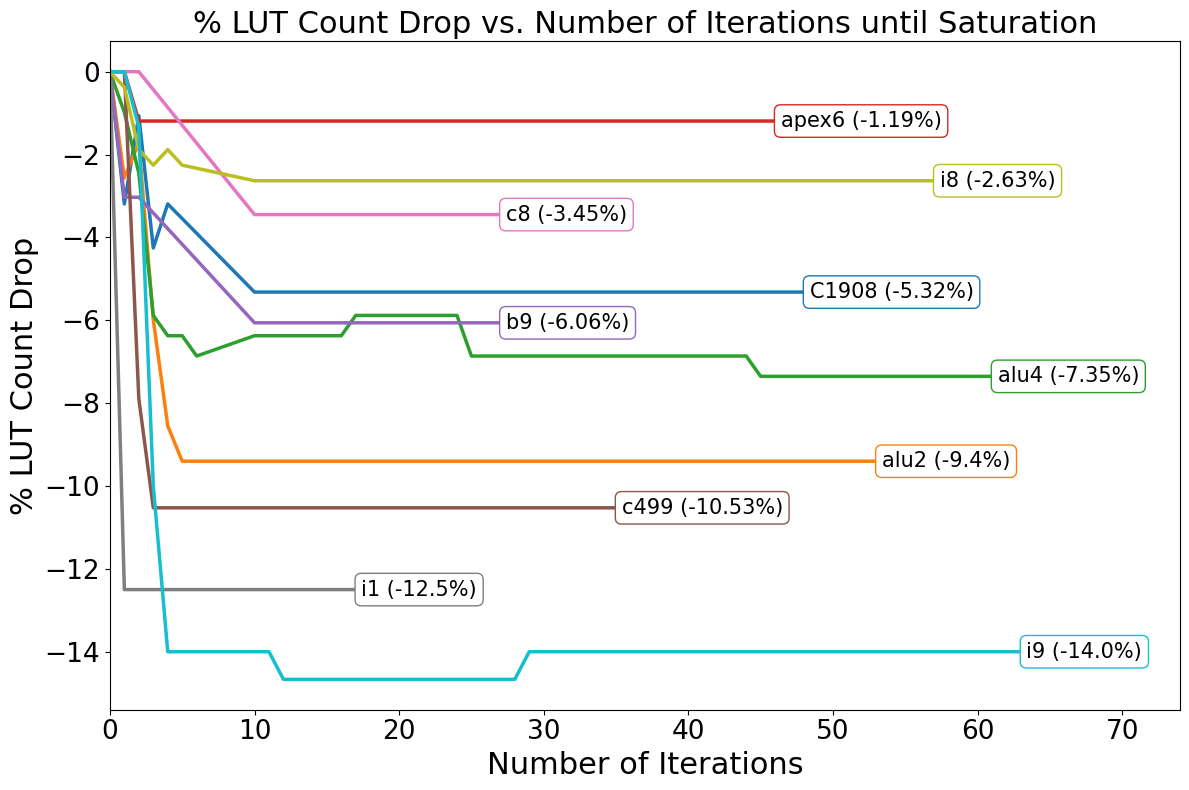
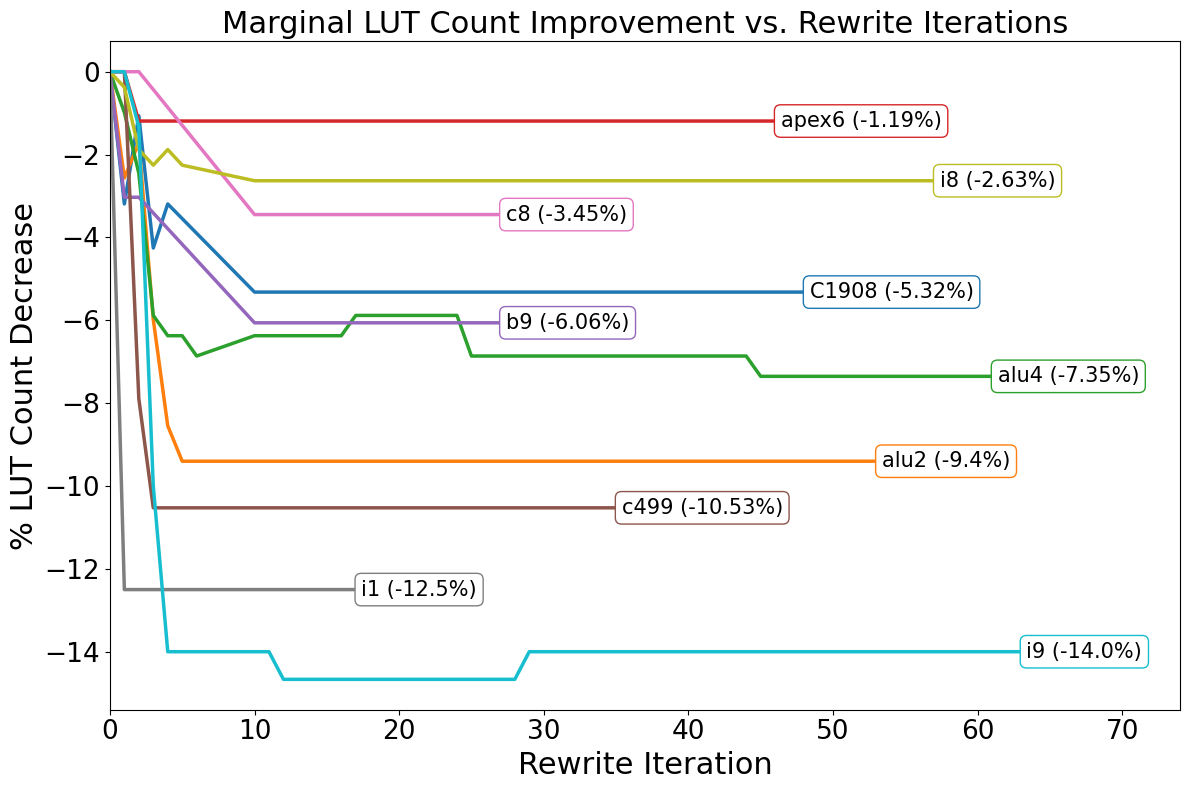
More figure updates

Changed region(s): [[0.1556, 0.0, 0.9336, 0.0608], [0.4045, 0.9418, 0.6846, 1.0], [0.0, 0.243, 0.0311, 0.6987]]

diff --git a/results/03_01_25/complexity_graph.py b/results/03_01_25/complexity_graph.py
@@ -14,7 +14,9 @@ if __name__ == "__main__":
         for iteration_data in data["modules"][module]:
             iteration = get_iter(iteration_data)
             build_time = data["modules"][module][iteration_data]["build_time"]
-            
+            saturated = data["modules"][module][iteration_data]["saturated"]
+            if saturated:
+                break
             if iteration not in iteration_dict:
                 iteration_dict[iteration] = []
             iteration_dict[iteration].append(build_time)
@@ -26,7 +28,7 @@ if __name__ == "__main__":
     plt.figure(figsize=(12, 8))
     plt.title('Marginal Cost of E-graph Rewrite Iteration', fontsize=22)
     plt.plot(iterations[:70], derivative_build_times[:70], linewidth=2.5)
-    plt.xlabel("Iteration", fontsize=22)
+    plt.xlabel("Rewrite Iteration", fontsize=22)
     plt.ylabel("Iteration Execution Time (s)", fontsize=22)
     plt.tight_layout()
     plt.xticks(fontsize=19)
@@ -36,7 +38,7 @@ if __name__ == "__main__":
     plt.figure(figsize=(12, 8))
     plt.title('Build Time vs. Number of Iterations', fontsize=22)
     plt.plot(iterations[:70], avg_build_times[:70], linewidth=2.5)
-    plt.xlabel("Number of Iterations", fontsize=22)
+    plt.xlabel("Rewrite Iteration", fontsize=22)
     plt.ylabel("Average Build Time (s)", fontsize=22)
     plt.tight_layout()
     plt.xticks(fontsize=19)

diff --git a/results/03_01_25/lut_iter_graph.py b/results/03_01_25/lut_iter_graph.py
@@ -45,9 +45,9 @@ if __name__ == "__main__":
     args = parser.parse_args()
 
     plt.figure(figsize=(12, 8))
-    plt.title("% LUT Count Drop vs. Number of Iterations until Saturation", fontsize=22)
-    plt.xlabel("Number of Iterations", fontsize=22)
-    plt.ylabel("% LUT Count Drop", fontsize=22)
+    plt.title("Marginal LUT Count Improvement vs. Rewrite Iterations", fontsize=22)
+    plt.xlabel("Rewrite Iteration", fontsize=22)
+    plt.ylabel("% LUT Count Decrease", fontsize=22)
     plt.xticks(fontsize=19)
     plt.yticks(fontsize=19)
 
